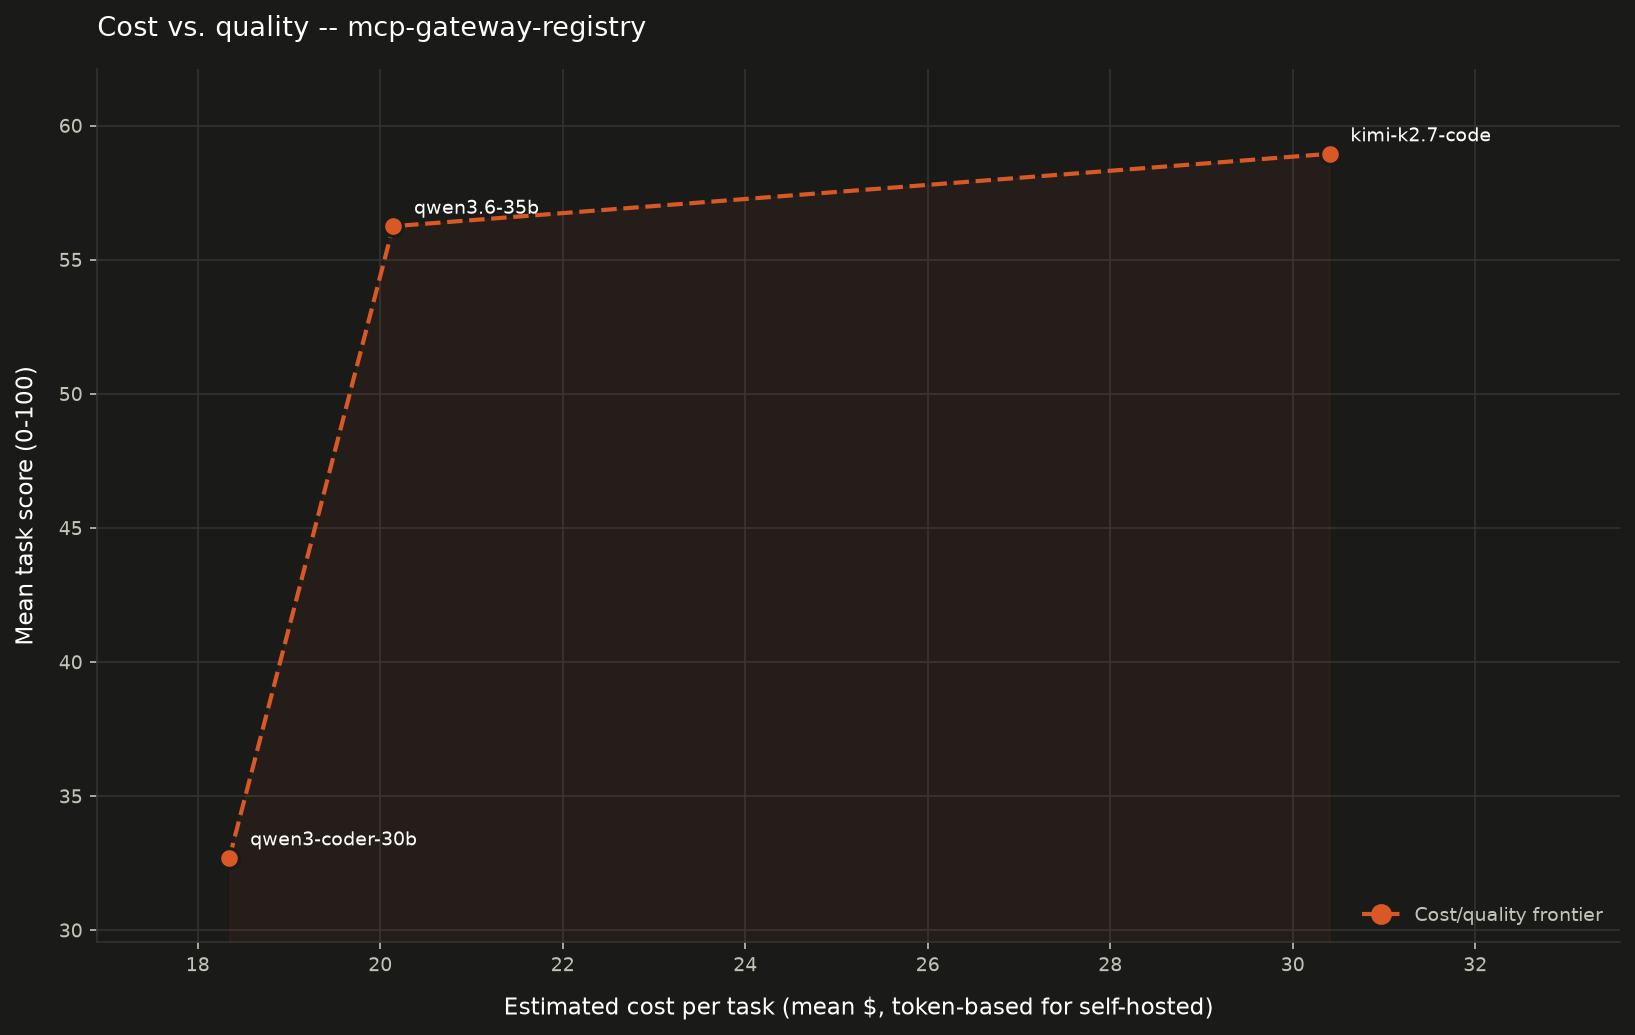
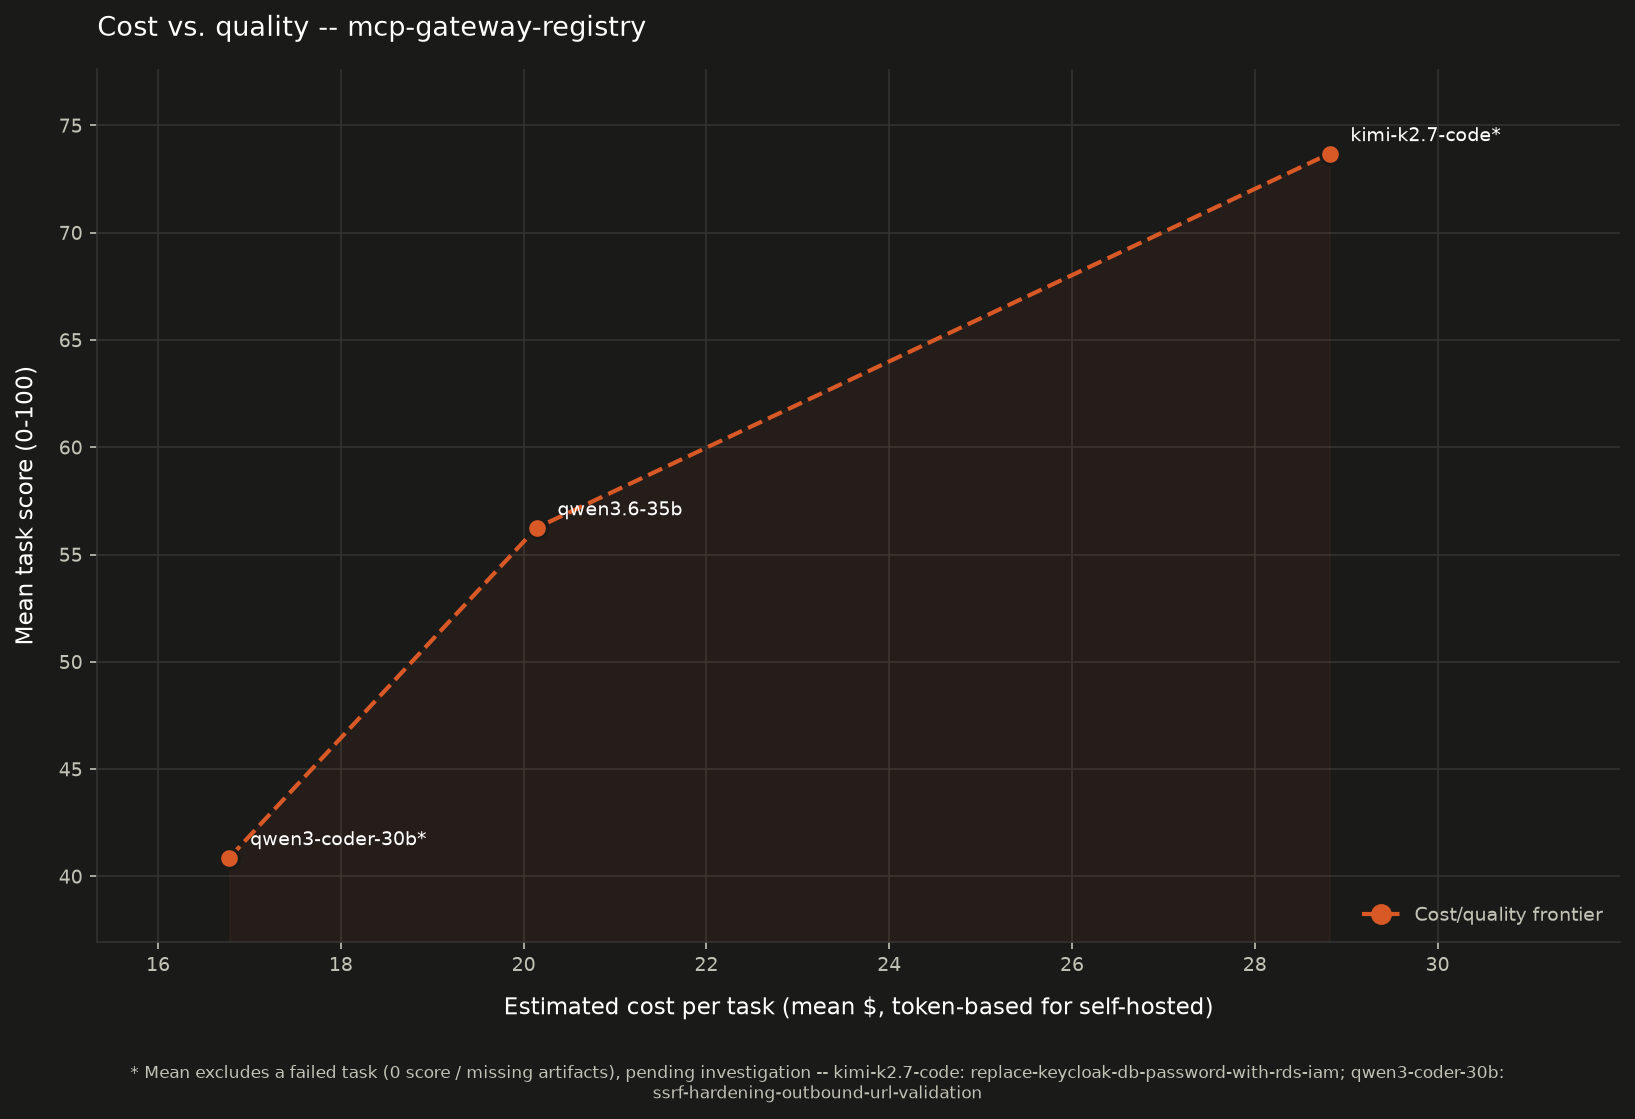
Exclude failed (0-score) tasks from the mean, with a visible note
A task that scored 0 is a genuine model failure (missing artifacts) -- an
unresolved anomaly, not a quality measurement -- so it should not drag the
average. Exclude 0-score tasks from both the score and cost means in the
chart and the README leaderboard, keep the per-task 0.0 cells visible, and
note which task was excluded (pending investigation) on both.

- plot_cost_quality.py: means are over non-zero-score tasks; excluded task
  names are tracked per model, the point label gets a `*`, and a footnote
  under the chart names them.
- README: the results "Mean" row and the leaderboard now use the
  failed-task-excluded mean (Kimi 73.69 over 4, Qwen3.6-35B 56.25 over 5,
  Qwen3-Coder-30B 40.88 over 4), with a note explaining the exclusion.

diff --git a/benchmarks/scripts/plot_cost_quality.py b/benchmarks/scripts/plot_cost_quality.py
@@ -8,8 +8,10 @@ those where no other model is both cheaper and higher-scoring -- are connected b
 a highlighted frontier line, so the cost/quality trade-off is read at a glance.
 
 Each model's numbers come straight from its per-task ``metrics.json``
-(``total_cost_usd``) and ``eval.json`` (``task_score``); a task that produced no
-score (a model failure) counts as 0, matching the leaderboard's 5-task mean.
+(``total_cost_usd``) and ``eval.json`` (``task_score``). A task that scored 0 (a
+model failure -- missing artifacts) is an unresolved anomaly, not a quality
+reading, so it is EXCLUDED from both the score and cost means and noted on the
+chart, pending investigation.
 
 Note: for self-hosted vLLM runs ``total_cost_usd`` is a token-based *estimate*
 (the served model has no per-token bill), so the x-axis is labelled as estimated.
@@ -75,13 +77,21 @@ _THEME = {
 
 @dataclass
 class ModelPoint:
-    """One model's aggregate for the scatter."""
+    """One model's aggregate for the scatter.
+
+    Means are over the tasks the model actually completed with a non-zero
+    score. Zero-score tasks (a genuine model failure -- missing artifacts) are
+    an unresolved anomaly, not a quality measurement, so they are excluded from
+    both the score and cost means and surfaced separately (``excluded``) pending
+    investigation.
+    """
 
     model: str
     mean_cost: float
     mean_score: float
     n_tasks: int
     n_scored: int
+    excluded: list[str]
 
 
 def _read_json(path: Path) -> dict | None:
@@ -104,38 +114,45 @@ def _task_score(eval_data: dict | None) -> float | None:
 def _aggregate_model(model_repo_dir: Path) -> ModelPoint | None:
     """Aggregate one model's per-task cost and score under a repo directory.
 
-    A task folder must have ``metrics.json`` (for cost) to count. A missing or
-    unscored ``eval.json`` counts as a 0 score -- a model failure still consumed
-    cost and still counts against the mean, matching the README leaderboard.
+    A task folder must have ``metrics.json`` (for cost) to count. Tasks that
+    scored 0 -- a genuine model failure (missing/empty artifacts) rather than a
+    quality measurement -- are **excluded** from both the score and cost means
+    and returned in ``excluded`` for a visible note, pending investigation.
 
     Args:
         model_repo_dir: ``<data-dir>/<model>/<repo>`` directory.
 
     Returns:
-        The model's aggregate, or None if it has no scorable task folders.
+        The model's aggregate, or None if it has no task folders at all.
     """
     model = model_repo_dir.parent.name
     costs: list[float] = []
     scores: list[float] = []
-    n_scored = 0
+    excluded: list[str] = []
+    n_tasks = 0
     for task_dir in sorted(p for p in model_repo_dir.iterdir() if p.is_dir()):
         metrics = _read_json(task_dir / METRICS_FILENAME)
         if metrics is None:
             continue
+        n_tasks += 1
+        score = _task_score(_read_json(task_dir / EVAL_FILENAME))
+        # A 0 (or unscored) task is a model failure, not a quality signal:
+        # exclude it from both means and note it separately.
+        if not score:
+            excluded.append(task_dir.name)
+            continue
         cost = metrics.get("total_cost_usd")
         costs.append(float(cost) if isinstance(cost, (int, float)) else 0.0)
-        score = _task_score(_read_json(task_dir / EVAL_FILENAME))
-        if score is not None:
-            n_scored += 1
-        scores.append(score if score is not None else 0.0)
-    if not scores:
+        scores.append(score)
+    if n_tasks == 0:
         return None
     return ModelPoint(
         model=model,
-        mean_cost=sum(costs) / len(costs),
-        mean_score=sum(scores) / len(scores),
-        n_tasks=len(scores),
-        n_scored=n_scored,
+        mean_cost=sum(costs) / len(costs) if costs else 0.0,
+        mean_score=sum(scores) / len(scores) if scores else 0.0,
+        n_tasks=n_tasks,
+        n_scored=len(scores),
+        excluded=excluded,
     )
 
 
@@ -210,9 +227,9 @@ def _pareto_frontier(points: list[ModelPoint]) -> list[ModelPoint]:
 
 
 def _label(point: ModelPoint) -> str:
-    """Build a point label, flagging partial runs (a model failure)."""
-    if point.n_scored < point.n_tasks:
-        return f"{point.model} ({point.n_scored}/{point.n_tasks} scored)"
+    """Build a point label; mark models whose mean excludes a failed task."""
+    if point.excluded:
+        return f"{point.model}*"
     return point.model
 
 
@@ -313,6 +330,26 @@ def _plot(
         legend = ax.legend(loc="lower right", frameon=False, fontsize=9)
         for text in legend.get_texts():
             text.set_color(theme["muted"])
+
+    # Note any excluded failed tasks so the chart is self-explaining: a 0-score
+    # (missing-artifact) task is a model failure, not a quality reading, so it is
+    # left out of the means, pending investigation.
+    excl_notes = [f"{p.model}: {', '.join(p.excluded)}" for p in points if p.excluded]
+    if excl_notes:
+        note = (
+            "* Mean excludes a failed task (0 score / missing artifacts), pending "
+            "investigation -- " + "; ".join(excl_notes)
+        )
+        fig.text(
+            0.5,
+            -0.02,
+            note,
+            ha="center",
+            va="top",
+            fontsize=8,
+            color=theme["muted"],
+            wrap=True,
+        )
 
     fig.tight_layout()
     output.parent.mkdir(parents=True, exist_ok=True)

diff --git a/README.md b/README.md
@@ -133,7 +133,9 @@ All cells are task scores (0-100), the mean of the 4 artifact totals per (task x
 | `ssrf-hardening-outbound-url-validation` | Medium | **72.75** | 55.75 | 0.0 ⁵ | n/a |
 | `migrate-ecs-env-vars-to-secrets-manager` | High | **75.5** | 54.5 | 36.25 | n/a |
 | `replace-keycloak-db-password-with-rds-iam` | High | 0.0 ⁵ | **48.75** | 33.25 | n/a |
-| **Mean (5 tasks)** | | **58.95** | 56.25 | 32.7 | n/a |
+| **Mean (excl. failed task⁵)** | | **73.69** | **56.25** | 40.88 | n/a |
+
+The **Mean** row excludes any task that scored 0 -- a genuine model failure (missing artifacts), which is an unresolved anomaly rather than a quality measurement, so it is left out of the average **pending further investigation** and flagged with `⁵`. Per-task 0.0 cells are still shown so the failure is visible; Kimi's mean is over the 4 tasks it completed, Qwen3-Coder-30B's over its 4, and Qwen3.6-35B's over all 5 (no failures).
 
 **Hardware:** Kimi-K2.7-Code (1.06T-param MoE, ~1 TB weights) ran on **8x H200** (`p5en.48xlarge`) at its full **131,072-token (128K) native context window**; the three Qwen models (3B-active MoE) ran on a single **`g6e.12xlarge`** (4x L40S) at a 200K window. All via vLLM. Note Kimi's 128K window is below the harness's 200K agentic-coding guideline, yet it completed 4 of 5 tasks -- the one failure (`keycloak-rds-iam`) was a turn-cap timeout, not a context overflow.
 
@@ -149,12 +151,14 @@ Mean estimated cost per task (x, token-based for self-hosted) against mean task 
 
 ### Per-model leaderboard (self-hosted, so far)
 
-| Rank | Model | Params (active) | Hardware | Mean (5) | Mean (completed) |
-|-----:|-------|----------------|----------|---------:|-----------------:|
-| 1 | Kimi-K2.7-Code | 1,058.6B (MoE) | 8x H200 | **58.95** | 73.69 (4/5) |
-| 2 | Qwen3.6-35B-A3B | 35.9B (3B) | g6e.12xlarge | **56.25** | 56.25 (5/5) |
-| 3 | Qwen3-Coder-30B-A3B-Instruct | 30.5B (3B) | g6e.12xlarge | **32.7** | 40.88 (4/5) |
-| - | Qwen3-Coder-Next | 79.6B (3B) | (needs bigger node) | not viable on g6e.12xlarge | - |
+Mean score is over the tasks each model completed (any 0-score failed task is excluded pending investigation; see the note above).
+
+| Rank | Model | Params (active) | Hardware | Mean score | Tasks scored |
+|-----:|-------|----------------|----------|-----------:|-------------:|
+| 1 | Kimi-K2.7-Code | 1,058.6B (MoE) | 8x H200 | **73.69** | 4/5 |
+| 2 | Qwen3.6-35B-A3B | 35.9B (3B) | g6e.12xlarge | **56.25** | 5/5 |
+| 3 | Qwen3-Coder-30B-A3B-Instruct | 30.5B (3B) | g6e.12xlarge | **40.88** | 4/5 |
+| - | Qwen3-Coder-Next | 79.6B (3B) | (needs bigger node) | not viable on g6e.12xlarge | 0 |
 
 **Coming soon:** Claude Opus/Sonnet/Haiku (Path 1, Bedrock) and the open-weight Bedrock models via the LiteLLM proxy (Path 2 -- DeepSeek, Mistral, GLM, MiniMax, …).
 
@@ -162,8 +166,8 @@ Mean estimated cost per task (x, token-based for self-hosted) against mean task 
 
 These are early self-hosted numbers on differing hardware; treat them as a starting point, not a final ranking. Cross-path comparisons wait until the Bedrock paths are run.
 
-- **Kimi-K2.7-Code leads on the tasks it completed** (73.69 over 4), edging out Qwen3.6-35B -- but it needs a far larger box (8x H200 vs a single g6e.12xlarge). On a per-task-completed basis it is the strongest self-hosted model so far; on the strict 5-task mean the two are close (58.95 vs 56.25) because a turn-cap failure on `keycloak-rds-iam` cost it a 0.
-- **Qwen3.6-35B is the value story:** it comes within ~3 points of a trillion-parameter model on the 5-task mean while running on one mid-range GPU node, and it is the only model here that completed all five tasks.
+- **Kimi-K2.7-Code leads on the tasks it completed** (73.69 over 4), ahead of Qwen3.6-35B (56.25) -- but it needs a far larger box (8x H200 vs a single g6e.12xlarge) and it failed one task outright (a turn-cap timeout on `keycloak-rds-iam`, excluded from its mean pending investigation).
+- **Qwen3.6-35B is the value story:** the only model here that completed all five tasks, on one mid-range GPU node, at a mean of 56.25 -- roughly median on this judge's calibration, and it never failed a task.
 - **The judge is strict, and these are open-weight models on design (not coding) tasks.** Scores in the 45-75 range reflect artifacts that are serviceable but often light on the specificity and risk-analysis the rubric rewards; this is expected when smaller/coder-tuned models are asked to produce design documentation rather than code.
 - **The two 0s are real, not judging noise.** Both were the model exhausting its 60-turn budget without producing the full artifact set -- Qwen3-Coder-30B in particular kept trying to *implement* the SSRF fix instead of *designing* it. The harness caps turns and the judge scores the shortfall honestly.
 - **MoE economics are the reason to self-host these.** Every model here is a mixture-of-experts, so per-token compute (and cost) tracks the active-expert count, not the total -- the regime where a fixed-cost GPU node can beat per-token API pricing under load.